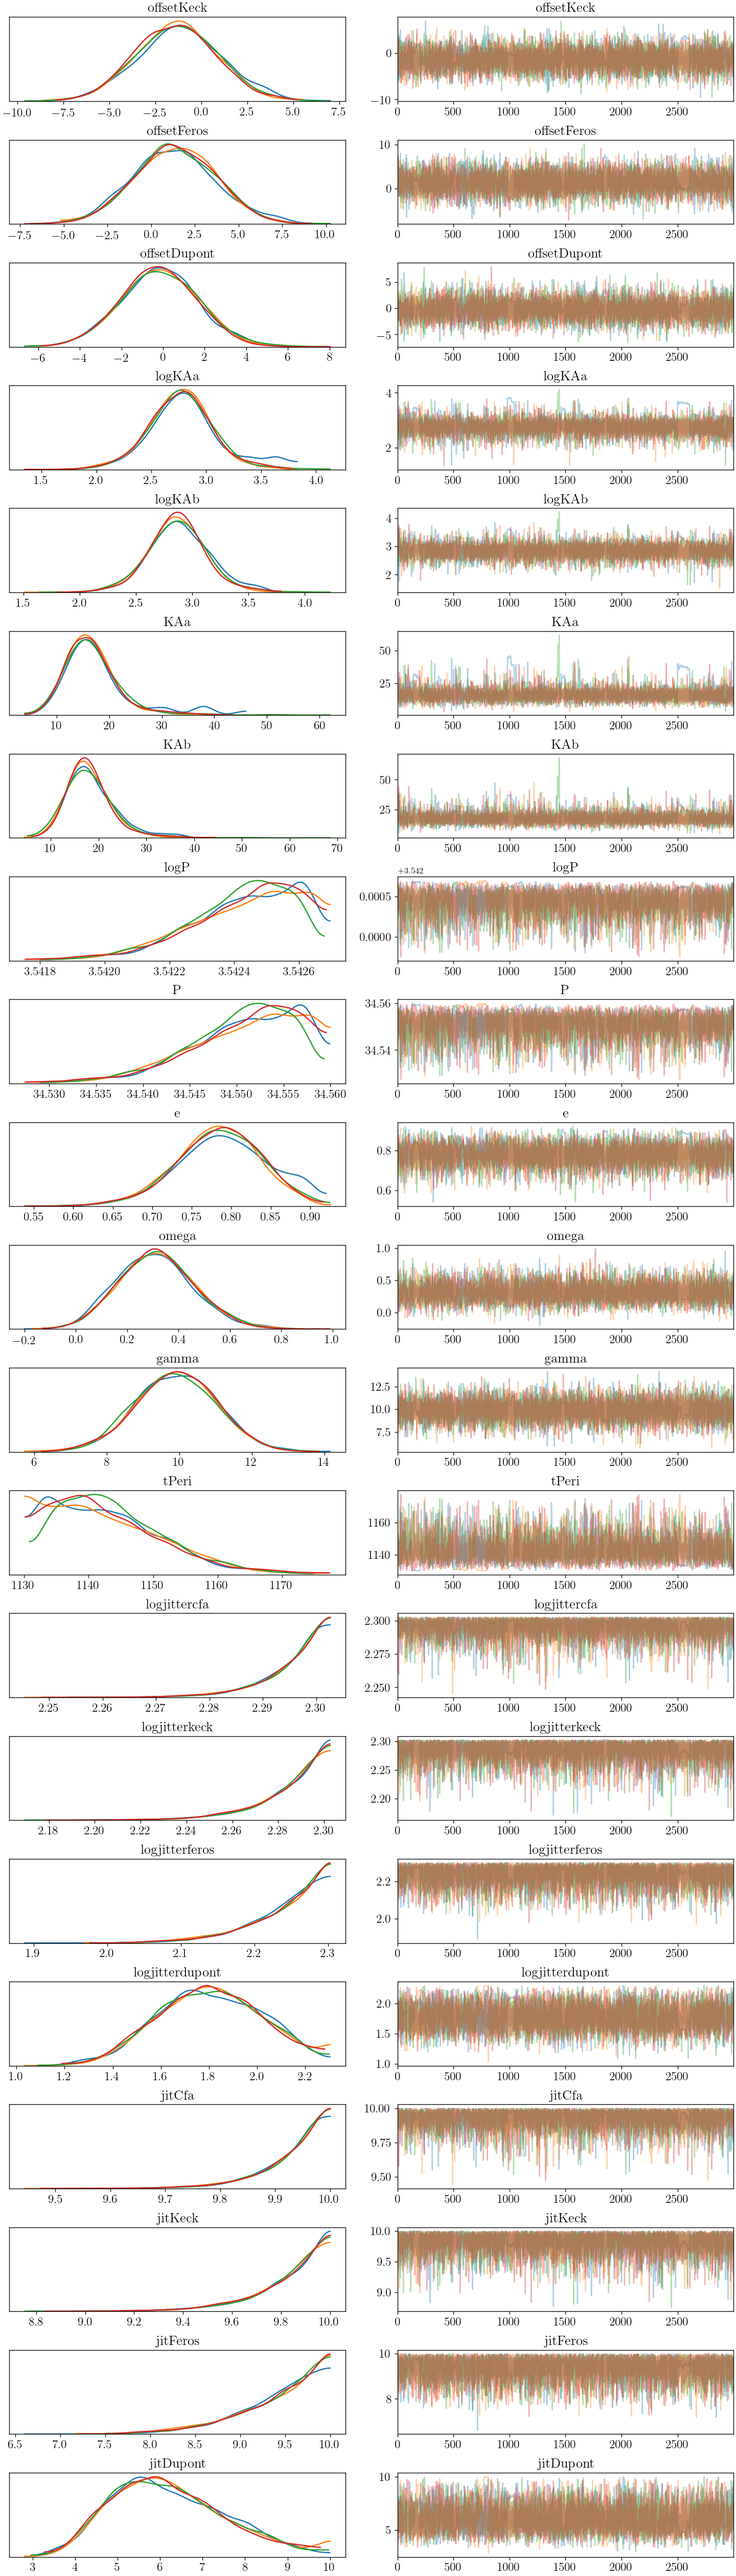
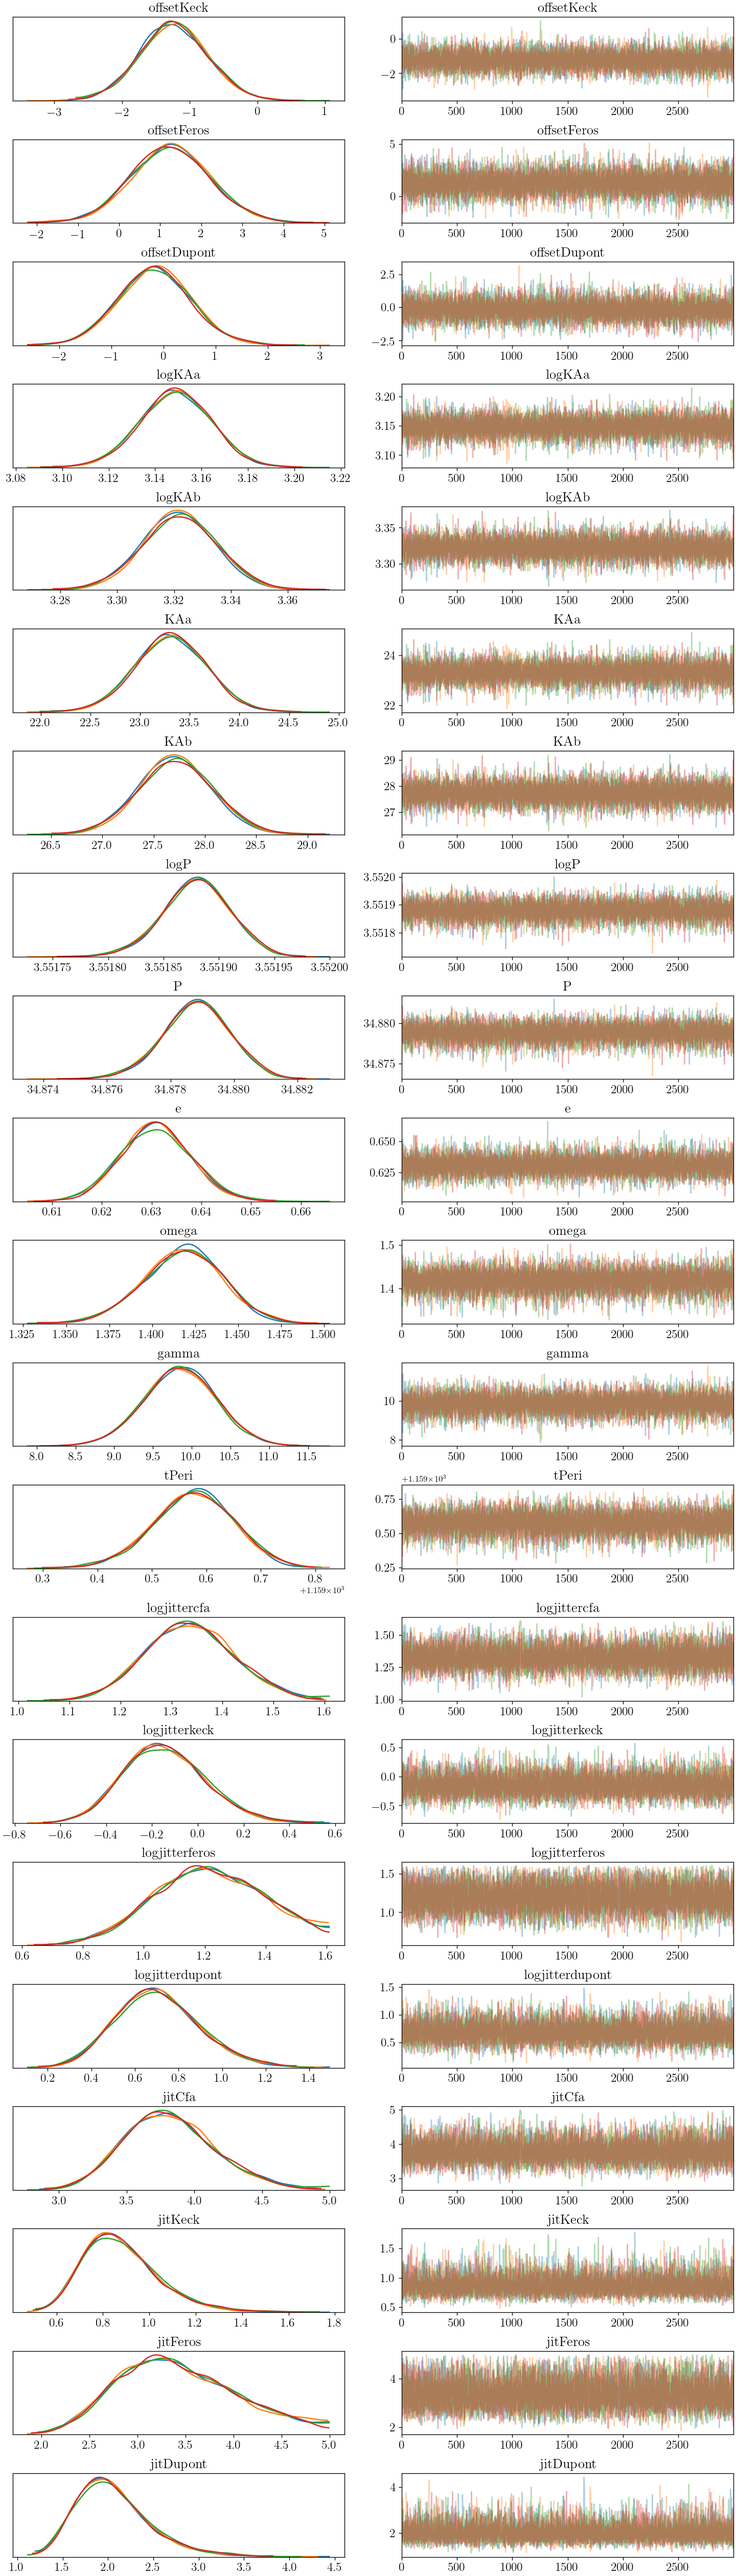
setting up astro fit

diff --git a/src/close/rv-astro/model.py b/src/close/rv-astro/model.py
@@ -27,7 +27,7 @@ with pm.Model() as model:
     a = pm.Deterministic("a", 1e-3 * a_ang / parallax)  # au
 
     logP = pm.Uniform(
-        "logP", lower=0, upper=np.log(50.0), testval=np.log(34.87846)
+        "logP", lower=np.log(20.0), upper=np.log(50.0), testval=np.log(34.87846)
     )  # days
     P = pm.Deterministic("P", tt.exp(logP))
 
@@ -48,7 +48,7 @@ with pm.Model() as model:
     MAb = pm.Normal("MAb", mu=0.3, sd=0.5)  # solar masses
 
     t_periastron = pm.Uniform(
-        "tPeri", lower=52690.0, upper=52720.0, testval=52704.55
+        "tPeri", lower=1130.0, upper=1170.0, testval=1159.00
     )  # + 2400000 days
 
     orbit = xo.orbits.KeplerianOrbit(
@@ -127,10 +127,16 @@ with pm.Model() as model:
         "cfaRV2Obs", mu=rv2_cfa, observed=d.cfa2[1], sd=get_err(d.cfa2[2], logjit_cfa)
     )
     pm.Normal(
-        "keckRV1Obs", mu=rv1_keck, observed=d.keck1[1], sd=get_err(d.keck1[2], logjit_keck)
+        "keckRV1Obs",
+        mu=rv1_keck,
+        observed=d.keck1[1],
+        sd=get_err(d.keck1[2], logjit_keck),
     )
     pm.Normal(
-        "keckRV2Obs", mu=rv2_keck, observed=d.keck2[1], sd=get_err(d.keck2[2], logjit_keck)
+        "keckRV2Obs",
+        mu=rv2_keck,
+        observed=d.keck2[1],
+        sd=get_err(d.keck2[2], logjit_keck),
     )
     pm.Normal(
         "ferosRV1Obs",

diff --git a/src/close/rv/model.py b/src/close/rv/model.py
@@ -6,6 +6,7 @@ import numpy as np
 import pandas as pd
 import pymc3 as pm
 import theano
+
 # load the exoplanet part
 import theano.tensor as tt
 from exoplanet.distributions import Angle
@@ -34,7 +35,7 @@ with pm.Model() as model:
     KAb = pm.Deterministic("KAb", tt.exp(logKAb))
 
     logP = pm.Uniform(
-        "logP", lower=0, upper=np.log(50.0), testval=np.log(34.87846)
+        "logP", lower=np.log(20.0), upper=np.log(50.0), testval=np.log(34.87846)
     )  # days
 
     P = pm.Deterministic("P", tt.exp(logP))
@@ -47,7 +48,7 @@ with pm.Model() as model:
 
     # relative to jd0
     t_periastron = pm.Uniform(
-        "tPeri", lower=1130.0, upper=1180.0, testval=1145.0
+        "tPeri", lower=1130.0, upper=1180.0, testval=1159.0
     )  # + 2400000 days
 
     orbit = xo.orbits.KeplerianOrbit(

diff --git a/src/close/rv-astro/sample.py b/src/close/rv-astro/sample.py
@@ -1,0 +1,28 @@
+import pymc3 as pm
+import exoplanet as xo
+
+import src.close.rv_astro.model as m
+
+# with m.model:
+#     map_sol = xo.optimize(vars=[m.logKAa, m.logKAb, m.P, m.t_periastron, m.omega])
+#     map_sol1 = xo.optimize(start=map_sol)
+
+# print(map_sol1)
+
+with m.model:
+    trace = pm.sample(
+        tune=2500,
+        draws=3000,
+        # start=map_sol1,
+        chains=4,
+        step=xo.get_dense_nuts_step(target_accept=0.9),
+    )
+
+# save the samples as a pymc3 object
+pm.save_trace(trace, directory="chains/close/rv", overwrite=True)
+
+# and as a CSV, just in case the model spec
+# changes and we have trouble reloading things
+df = pm.trace_to_dataframe(trace)
+df.to_csv(f"chains/close/rv/current.csv")
+

diff --git a/src/close/rv/sample.py b/src/close/rv/sample.py
@@ -1,15 +1,19 @@
 import pymc3 as pm
 import exoplanet as xo
-from src.close.rv.model import model
 
-with model:
-    map_sol = xo.optimize()
+import src.close.rv.model as m
 
-with model:
+# with m.model:
+#     map_sol = xo.optimize(vars=[m.logKAa, m.logKAb, m.P, m.t_periastron, m.omega])
+#     map_sol1 = xo.optimize(start=map_sol)
+
+# print(map_sol1)
+
+with m.model:
     trace = pm.sample(
         tune=2500,
         draws=3000,
-        start=map_sol,
+        # start=map_sol1,
         chains=4,
         step=xo.get_dense_nuts_step(target_accept=0.9),
     )
